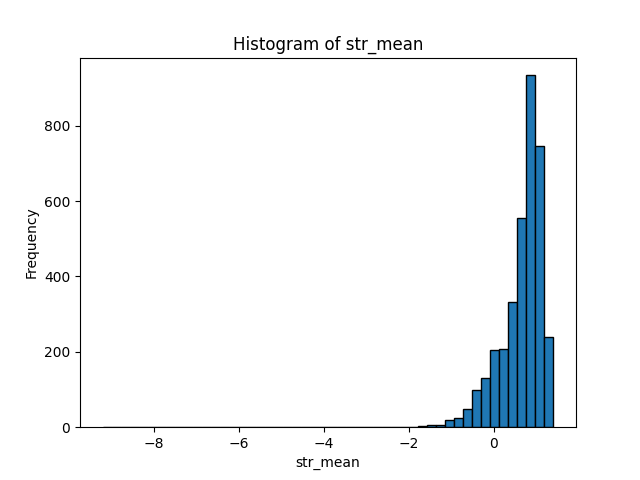
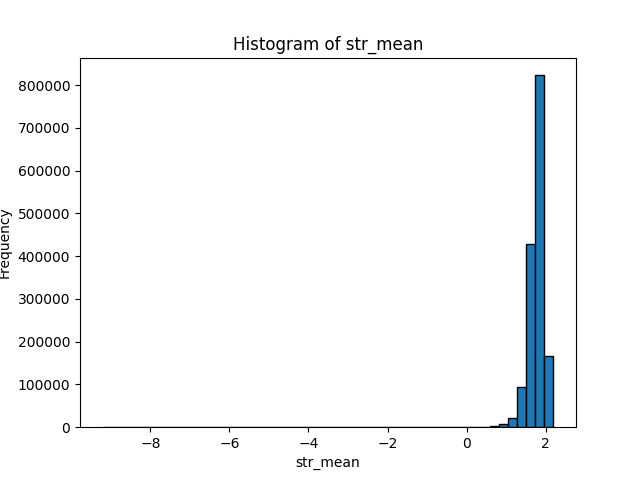
working log transformation to sro, ssro, streamflow

diff --git a/examples/catchment_models/neuralhydrology/model_plots.py b/examples/catchment_models/neuralhydrology/model_plots.py
@@ -14,8 +14,8 @@ if __name__ == "__main__":
                 #     ['usa_time_split_adj_0807_170652'],
                 'neuralhydrology':
                     [
-                    'usa_time_split_nse_sqrt_0508_155125',
-                    'usa_time_split_nse_sqrt2_0608_102118'
+                    'usa_time_split_nse_adaDT5_0708_133848',
+                    'usa_time_split_nse_adaDT5_0508_103715'
                     ]
                 }
 
@@ -31,43 +31,43 @@ if __name__ == "__main__":
                 epoch = '14'
             else:
                 model = 'coRNN'
-                epoch = '35'
+                epoch = '02'
 
             parts = run_dir.split('_')
             split_name = f"{parts[0].upper()} {parts[1].capitalize()} {parts[2].capitalize()}"
-            exp_name = f"{model}: {parts[3]} {parts[4]}"
+            exp_name = f"{model}: {parts[3]} {parts[4]} {parts[5]}"
 
-            # Plot observed vs simulated trajectory
-            qobs, qsim = obs_vs_sim_plot(model_dir, run_dir, epoch)
-            OvS.append((qobs, qsim, exp_name))
+            # # Plot observed vs simulated trajectory
+            # qobs, qsim = obs_vs_sim_plot(model_dir, run_dir, epoch)
+            # OvS.append((qobs, qsim, exp_name))
 
-            # Plot CDF of test metric (default: 'NSE')            
-            nse, cdf = cdf_plot(model_dir, run_dir, epoch, metric)
-            CDF.append((nse, cdf, exp_name))
+            # # Plot CDF of test metric (default: 'NSE')            
+            # nse, cdf = cdf_plot(model_dir, run_dir, epoch, metric)
+            # CDF.append((nse, cdf, exp_name))
 
             # Plot Median NSE vs Epochs
             ep, med_nse = NSE_plot(model_dir, run_dir, epoch)
             MED_NSE.append((ep, med_nse, exp_name))
     
     if True:
-        plot_folder = 'nse_sqrt'
+        plot_folder = 'log_dist'
         if not os.path.exists(f'plots/{plot_folder}'):
             os.makedirs(f'plots/{plot_folder}')
 
-        # Plot all CDFs on the same figure
-        plt.figure(1)
-        for (nse, cdf, exp_name) in CDF:
-            plt.plot(nse, cdf, label=exp_name)
-        plt.xlabel(metric)
-        plt.ylabel('CDF')
-        plt.title(f'{split_name}: CDF of {metric} for {epoch} epochs')
-        plt.xlim(0,1)
-        plt.ylim(-0.1,1.1)
-        plt.grid(True)
-        plt.legend()
-        fig_path = f'plots/{plot_folder}/CDF_{metric}.png'
-        plt.savefig(fig_path, dpi=300)
-        plt.close()
+        # # Plot all CDFs on the same figure
+        # plt.figure(1)
+        # for (nse, cdf, exp_name) in CDF:
+        #     plt.plot(nse, cdf, label=exp_name)
+        # plt.xlabel(metric)
+        # plt.ylabel('CDF')
+        # plt.title(f'{split_name}: CDF of {metric} for {epoch} epochs')
+        # plt.xlim(0,1)
+        # plt.ylim(-0.1,1.1)
+        # plt.grid(True)
+        # plt.legend()
+        # fig_path = f'plots/{plot_folder}/CDF_{metric}.png'
+        # plt.savefig(fig_path, dpi=300)
+        # plt.close()
 
         # Plot all median NSE on the same figure
         min_nse = 0
@@ -91,14 +91,14 @@ if __name__ == "__main__":
 
 
         # Plot observed vs simulated trajecory
-        plt.figure(3, figsize=(16,10))
-        qobs, _, _ = OvS[0]
-        for (qobs, qsim, exp_name) in OvS:
-            plt.plot(qsim['date'], qsim, label=f'{exp_name}')
-        plt.plot(qobs['date'], qobs, label='Observed')
-        plt.legend()
-        plt.ylabel("Discharge (mm/d)")
-        plt.title(f"Observed vs Simulated Trajectory")
-        fig_path = f'plots/{plot_folder}/obs_vs_sim3.png'
-        plt.savefig(fig_path, dpi=300)
-        plt.close()
+        # plt.figure(3, figsize=(16,10))
+        # qobs, _, _ = OvS[0]
+        # for (qobs, qsim, exp_name) in OvS:
+        #     plt.plot(qsim['date'], qsim, label=f'{exp_name}')
+        # plt.plot(qobs['date'], qobs, label='Observed')
+        # plt.legend()
+        # plt.ylabel("Discharge (mm/d)")
+        # plt.title(f"Observed vs Simulated Trajectory")
+        # fig_path = f'plots/{plot_folder}/obs_vs_sim3.png'
+        # plt.savefig(fig_path, dpi=300)
+        # plt.close()
